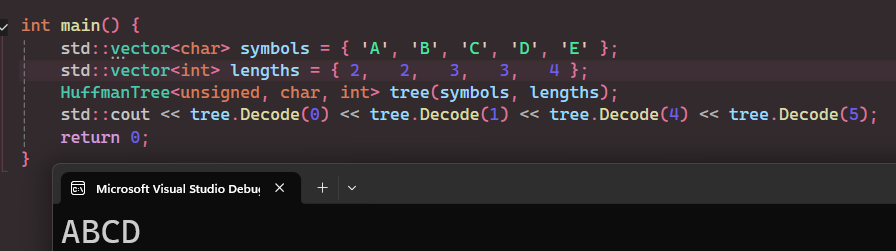
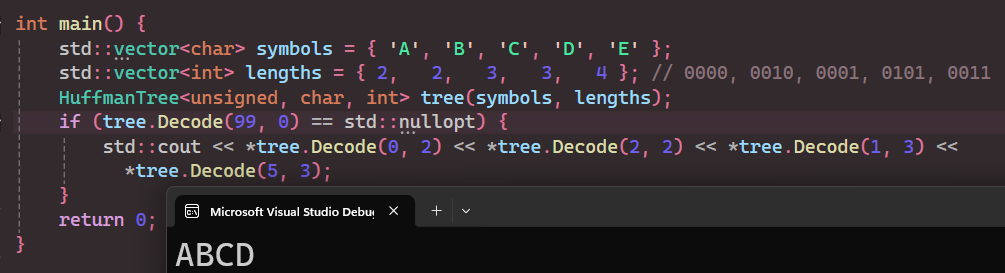
do length of the huffmand code needed ?

Changed region(s): [[0.0, 0.0558, 1.0, 1.0]]

diff --git a/code/HuffmanTree.h b/code/HuffmanTree.h
@@ -1,4 +1,5 @@
 #pragma once
+#include <map>
 #include <optional>
 #include <stdexcept>
 #include <unordered_map>
@@ -12,19 +13,31 @@
 
 template <typename Code, typename Symbol, typename Length>
 class HuffmanTree {
+	struct HuffmanCode {
+		Code code;
+		Length length;
+		bool operator<(const HuffmanCode& other) const {
+			if (length != other.length)
+				return length < other.length;
+			return code < other.code;
+		}
+	};
 public:
 	HuffmanTree() = delete;
 	HuffmanTree(const std::vector<Symbol>& symbols, const std::vector<Length>& lengths);
-	std::optional<Symbol> Decode(Code code);
+	std::optional<Symbol> Decode(Code code, Length length);
+	Length Minimum_Length();
 private:
 	size_t How_Many(const std::vector<Length>& lengths, Length ref);
 	std::vector<std::optional<Code>> Generate_Canoncial_Huffman_Code(const std::vector<Length>& lengths);
-	void Construct_Huffman_Tree(const std::vector<std::optional<Code>>& codes, const std::vector<Symbol>& symbols);
+	void Construct_Huffman_Tree(const std::vector<std::optional<Code>>& codes, const std::vector<Symbol>& symbols, const std::vector<Length>& lengths);
 	Code Generate_The_First_Canoncial_Huffman_Code_With_This_Length(Code already_generated, size_t how_many_was_it);
+	Code Reverse_Bits(Code code, Length code_length);
 	Length Find_Bigger_Any(const std::vector<Length>& lengths, Length anchor);
 	Length Find_Lowest(const std::vector<Length>& lengths, Length bigger_than_this);
 private:
-	std::unordered_map<Code, Symbol> m_tree;
+	std::map<HuffmanCode, Symbol> m_tree;
+	Length m_minimum_length_to_decode = 0u;
 };
 
 //*******************************************************************
@@ -38,18 +51,26 @@ private:
 template<typename Code, typename Symbol, typename Length>
 inline HuffmanTree<Code, Symbol, Length>::HuffmanTree(const std::vector<Symbol>& symbols, const std::vector<Length>& lengths) {
 	std::vector<std::optional<Code>> codes = Generate_Canoncial_Huffman_Code(lengths);
-	Construct_Huffman_Tree(codes, symbols);
+	Construct_Huffman_Tree(codes, symbols, lengths);
+	m_minimum_length_to_decode = Find_Lowest(lengths, 0u);
 }
 /// <summary>
 /// Decode the code using unordered_map.
 /// </summary>
 template<typename Code, typename Symbol, typename Length>
-inline std::optional<Symbol> HuffmanTree<Code, Symbol, Length>::Decode(Code code) {
-	auto search = m_tree.find(code);
+inline std::optional<Symbol> HuffmanTree<Code, Symbol, Length>::Decode(Code code, Length length) {
+	HuffmanCode huffman_code;
+	huffman_code.code = code;
+	huffman_code.length = length;
+	auto search = m_tree.find(huffman_code);
 	if (search == m_tree.end()) {
 		return std::nullopt;
 	}
 	return std::optional<Symbol>(search->second);
+}
+template<typename Code, typename Symbol, typename Length>
+inline Length HuffmanTree<Code, Symbol, Length>::Minimum_Length() {
+	return m_minimum_length_to_decode;
 }
 /// <summary>
 /// How many huffman code that share the same length.
@@ -74,10 +95,15 @@ inline std::vector<std::optional<Code>> HuffmanTree<Code, Symbol, Length>::Gener
 	Length the_length = 0u;
 	Code the_code = 0u;
 	size_t how_many = 0u;
+	Length prev_length = 1u;
 	do {
+		prev_length = the_length;
 		the_length = Find_Lowest(lengths, the_length);
-		if (the_length != 0u) {
+		for (Length i = 0u; i < the_length - prev_length; i++) {
 			the_code = Generate_The_First_Canoncial_Huffman_Code_With_This_Length(the_code, how_many);
+			how_many = 0u;
+		}
+		if (the_length != 0u) {
 			how_many = How_Many(lengths, the_length);
 			size_t counter = 0u;
 			for (size_t i = 0u; i < lengths.size(); i++) {
@@ -94,10 +120,14 @@ inline std::vector<std::optional<Code>> HuffmanTree<Code, Symbol, Length>::Gener
 /// No calculations here. Just combines the result that other member function did.
 /// </summary>
 template<typename Code, typename Symbol, typename Length>
-inline void HuffmanTree<Code, Symbol, Length>::Construct_Huffman_Tree(const std::vector<std::optional<Code>>& codes, const std::vector<Symbol>& symbols) {
+inline void HuffmanTree<Code, Symbol, Length>::Construct_Huffman_Tree(const std::vector<std::optional<Code>>& codes, const std::vector<Symbol>& symbols, const std::vector<Length>& lengths) {
 	for (size_t i = 0u; i < codes.size(); i++) {
 		if (codes[i] != std::nullopt) {
-			m_tree[*(codes[i])] = symbols[i];
+			HuffmanCode huffman_code;
+			huffman_code.code = Reverse_Bits(*(codes[i]), lengths[i]);
+			// huffman_code.code = *(codes[i]);
+			huffman_code.length = lengths[i];
+			m_tree[huffman_code] = symbols[i];
 		}
 	}
 }
@@ -107,6 +137,16 @@ inline void HuffmanTree<Code, Symbol, Length>::Construct_Huffman_Tree(const std:
 template<typename Code, typename Symbol, typename Length>
 inline Code HuffmanTree<Code, Symbol, Length>::Generate_The_First_Canoncial_Huffman_Code_With_This_Length(Code already_generated, size_t how_many_was_it) {
 	return (already_generated + how_many_was_it) << 1;
+}
+template<typename Code, typename Symbol, typename Length>
+inline Code HuffmanTree<Code, Symbol, Length>::Reverse_Bits(Code code, Length code_length) {
+	Code result = 0;
+	for (Length i = 0; i < code_length; i++) {
+		if (code & (1 << i)) {
+			result |= 1 << (code_length - 1 - i);
+		}
+	}
+	return result;
 }
 /// <summary>
 /// Returns the first Length encountered that bigger then the Anchor in a iteration.

diff --git a/demo.cpp b/demo.cpp
@@ -4,10 +4,10 @@
 
 int main() {
 	std::vector<char> symbols = { 'A', 'B', 'C', 'D', 'E' };
-	std::vector<int> lengths = { 2,   2,   3,   3,   4 };
+	std::vector<int> lengths = { 2,   2,   3,   3,   4 }; // 0000, 0010, 0001, 0101, 0011
 	HuffmanTree<unsigned, char, int> tree(symbols, lengths);
-	if (tree.Decode(99) == std::nullopt) {
-		std::cout << *tree.Decode(0) << *tree.Decode(1) << *tree.Decode(4) << *tree.Decode(5);
+	if (tree.Decode(99, 0) == std::nullopt) {
+		std::cout << *tree.Decode(0, 2) << *tree.Decode(2, 2) << *tree.Decode(1, 3) << *tree.Decode(5, 3);
 	}
 	return 0;
 }
